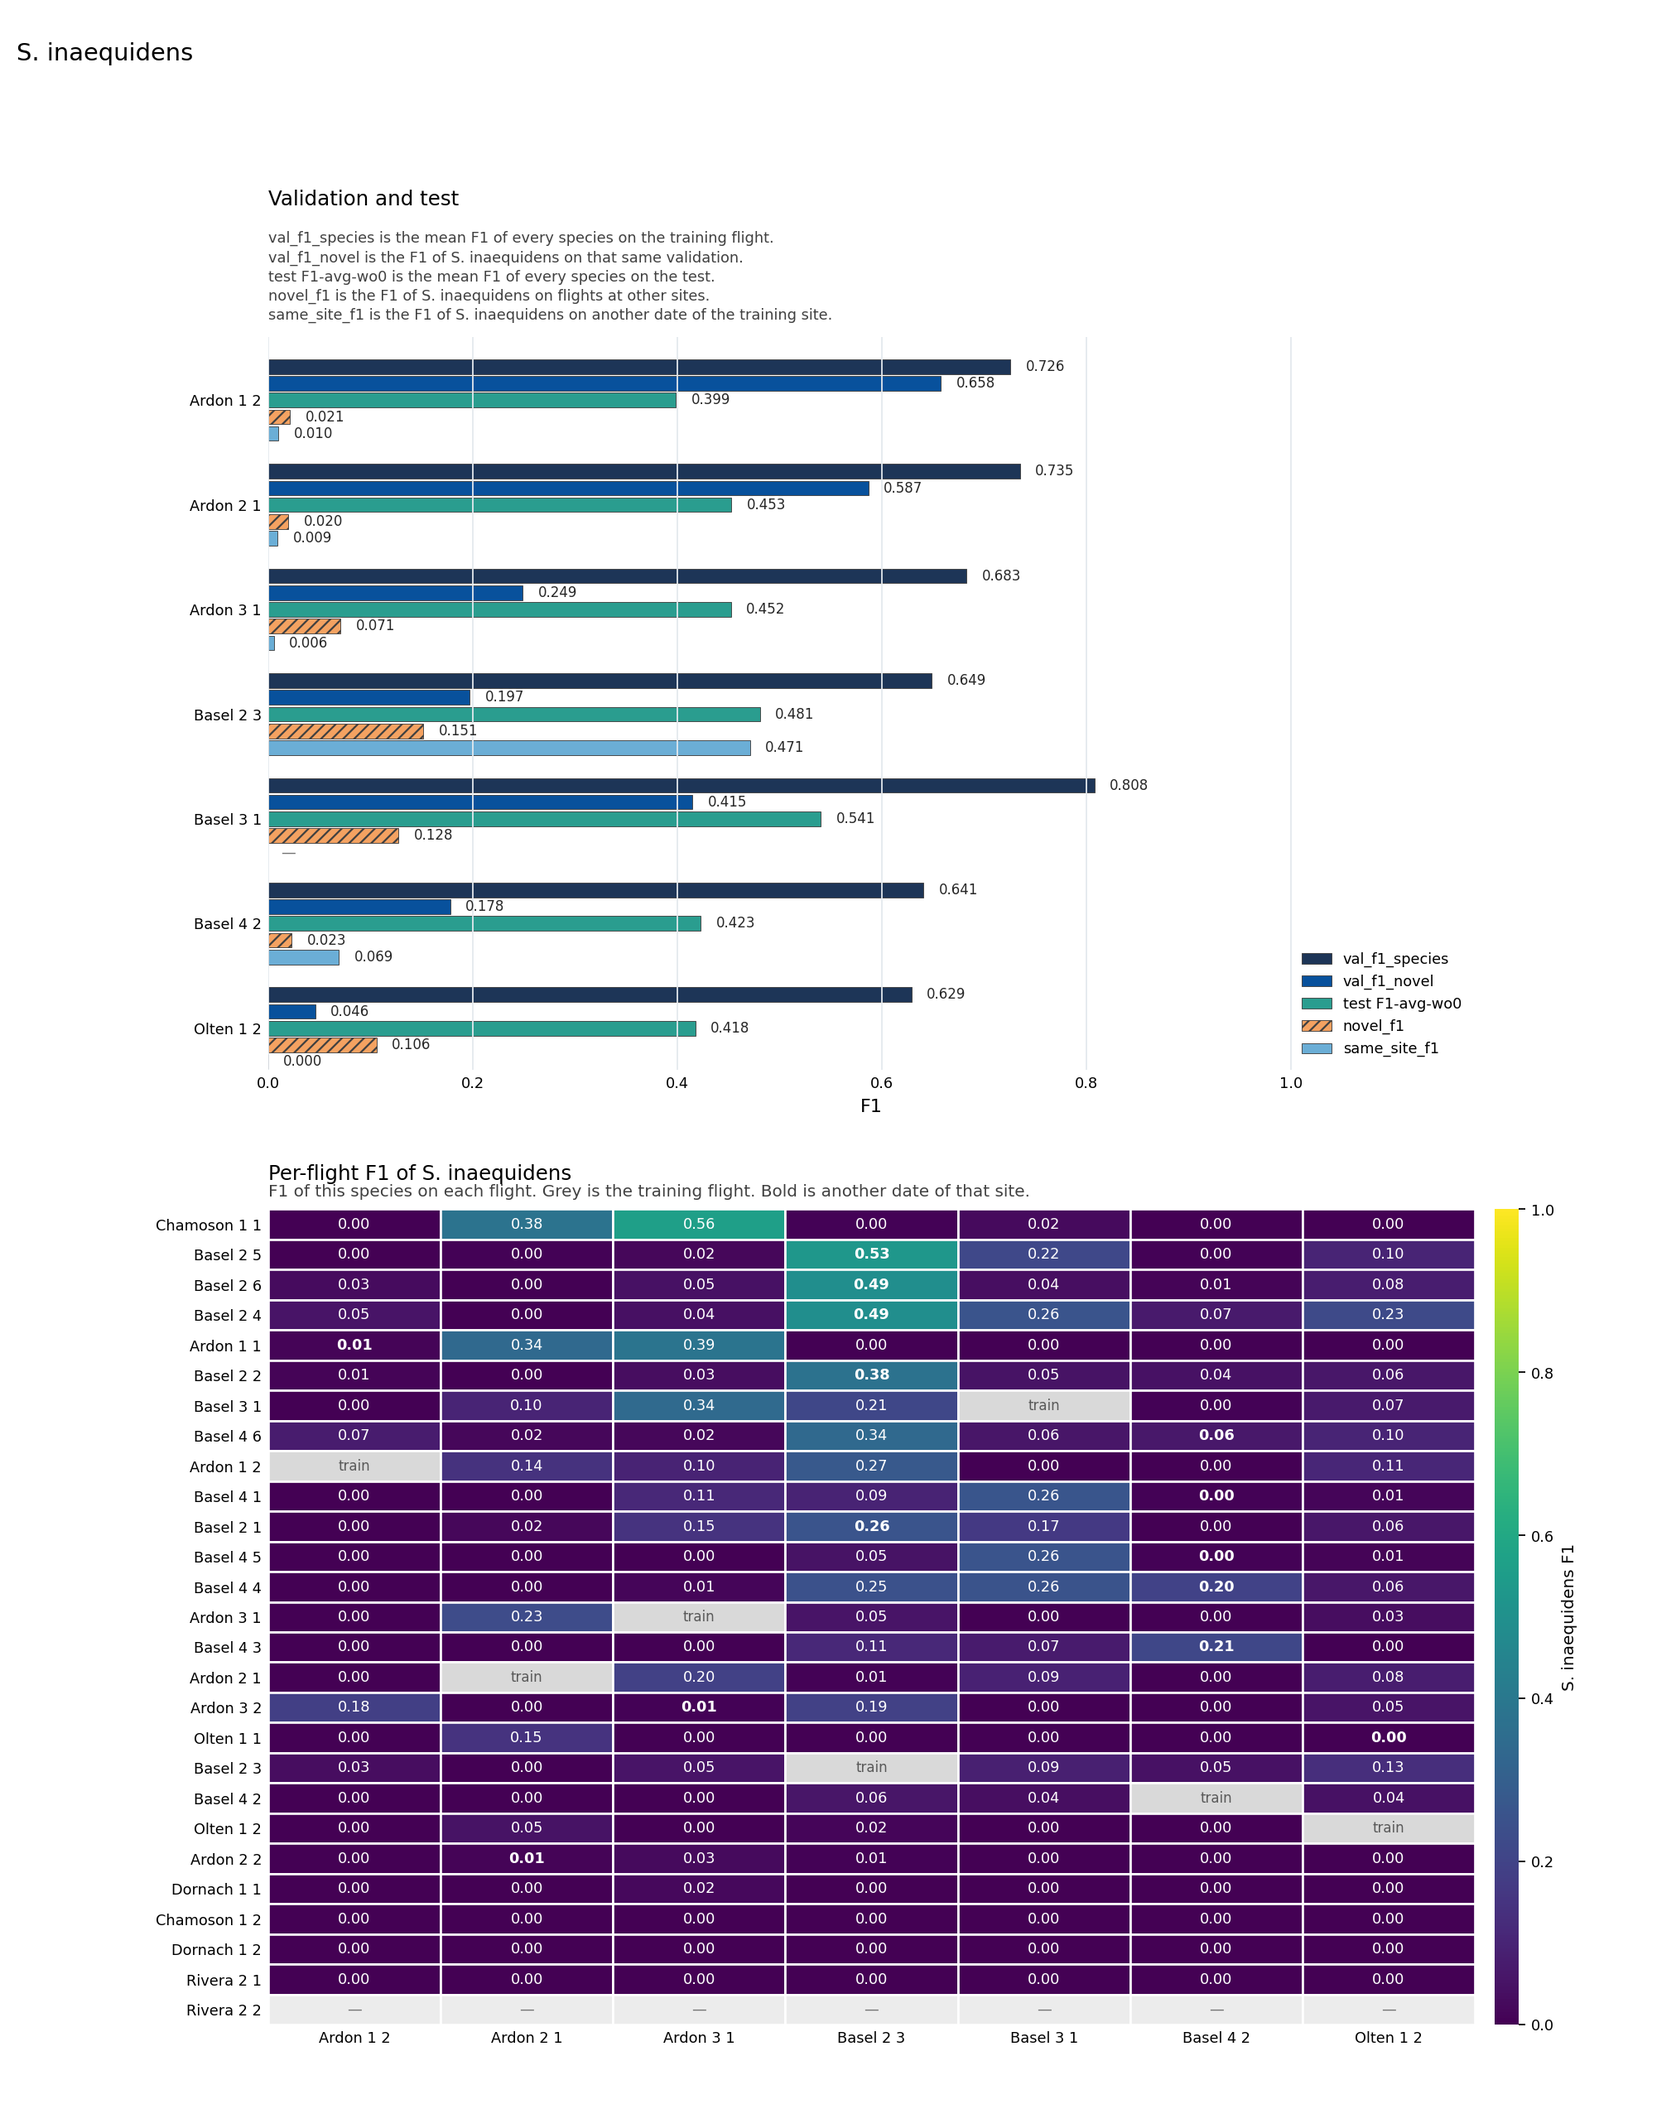
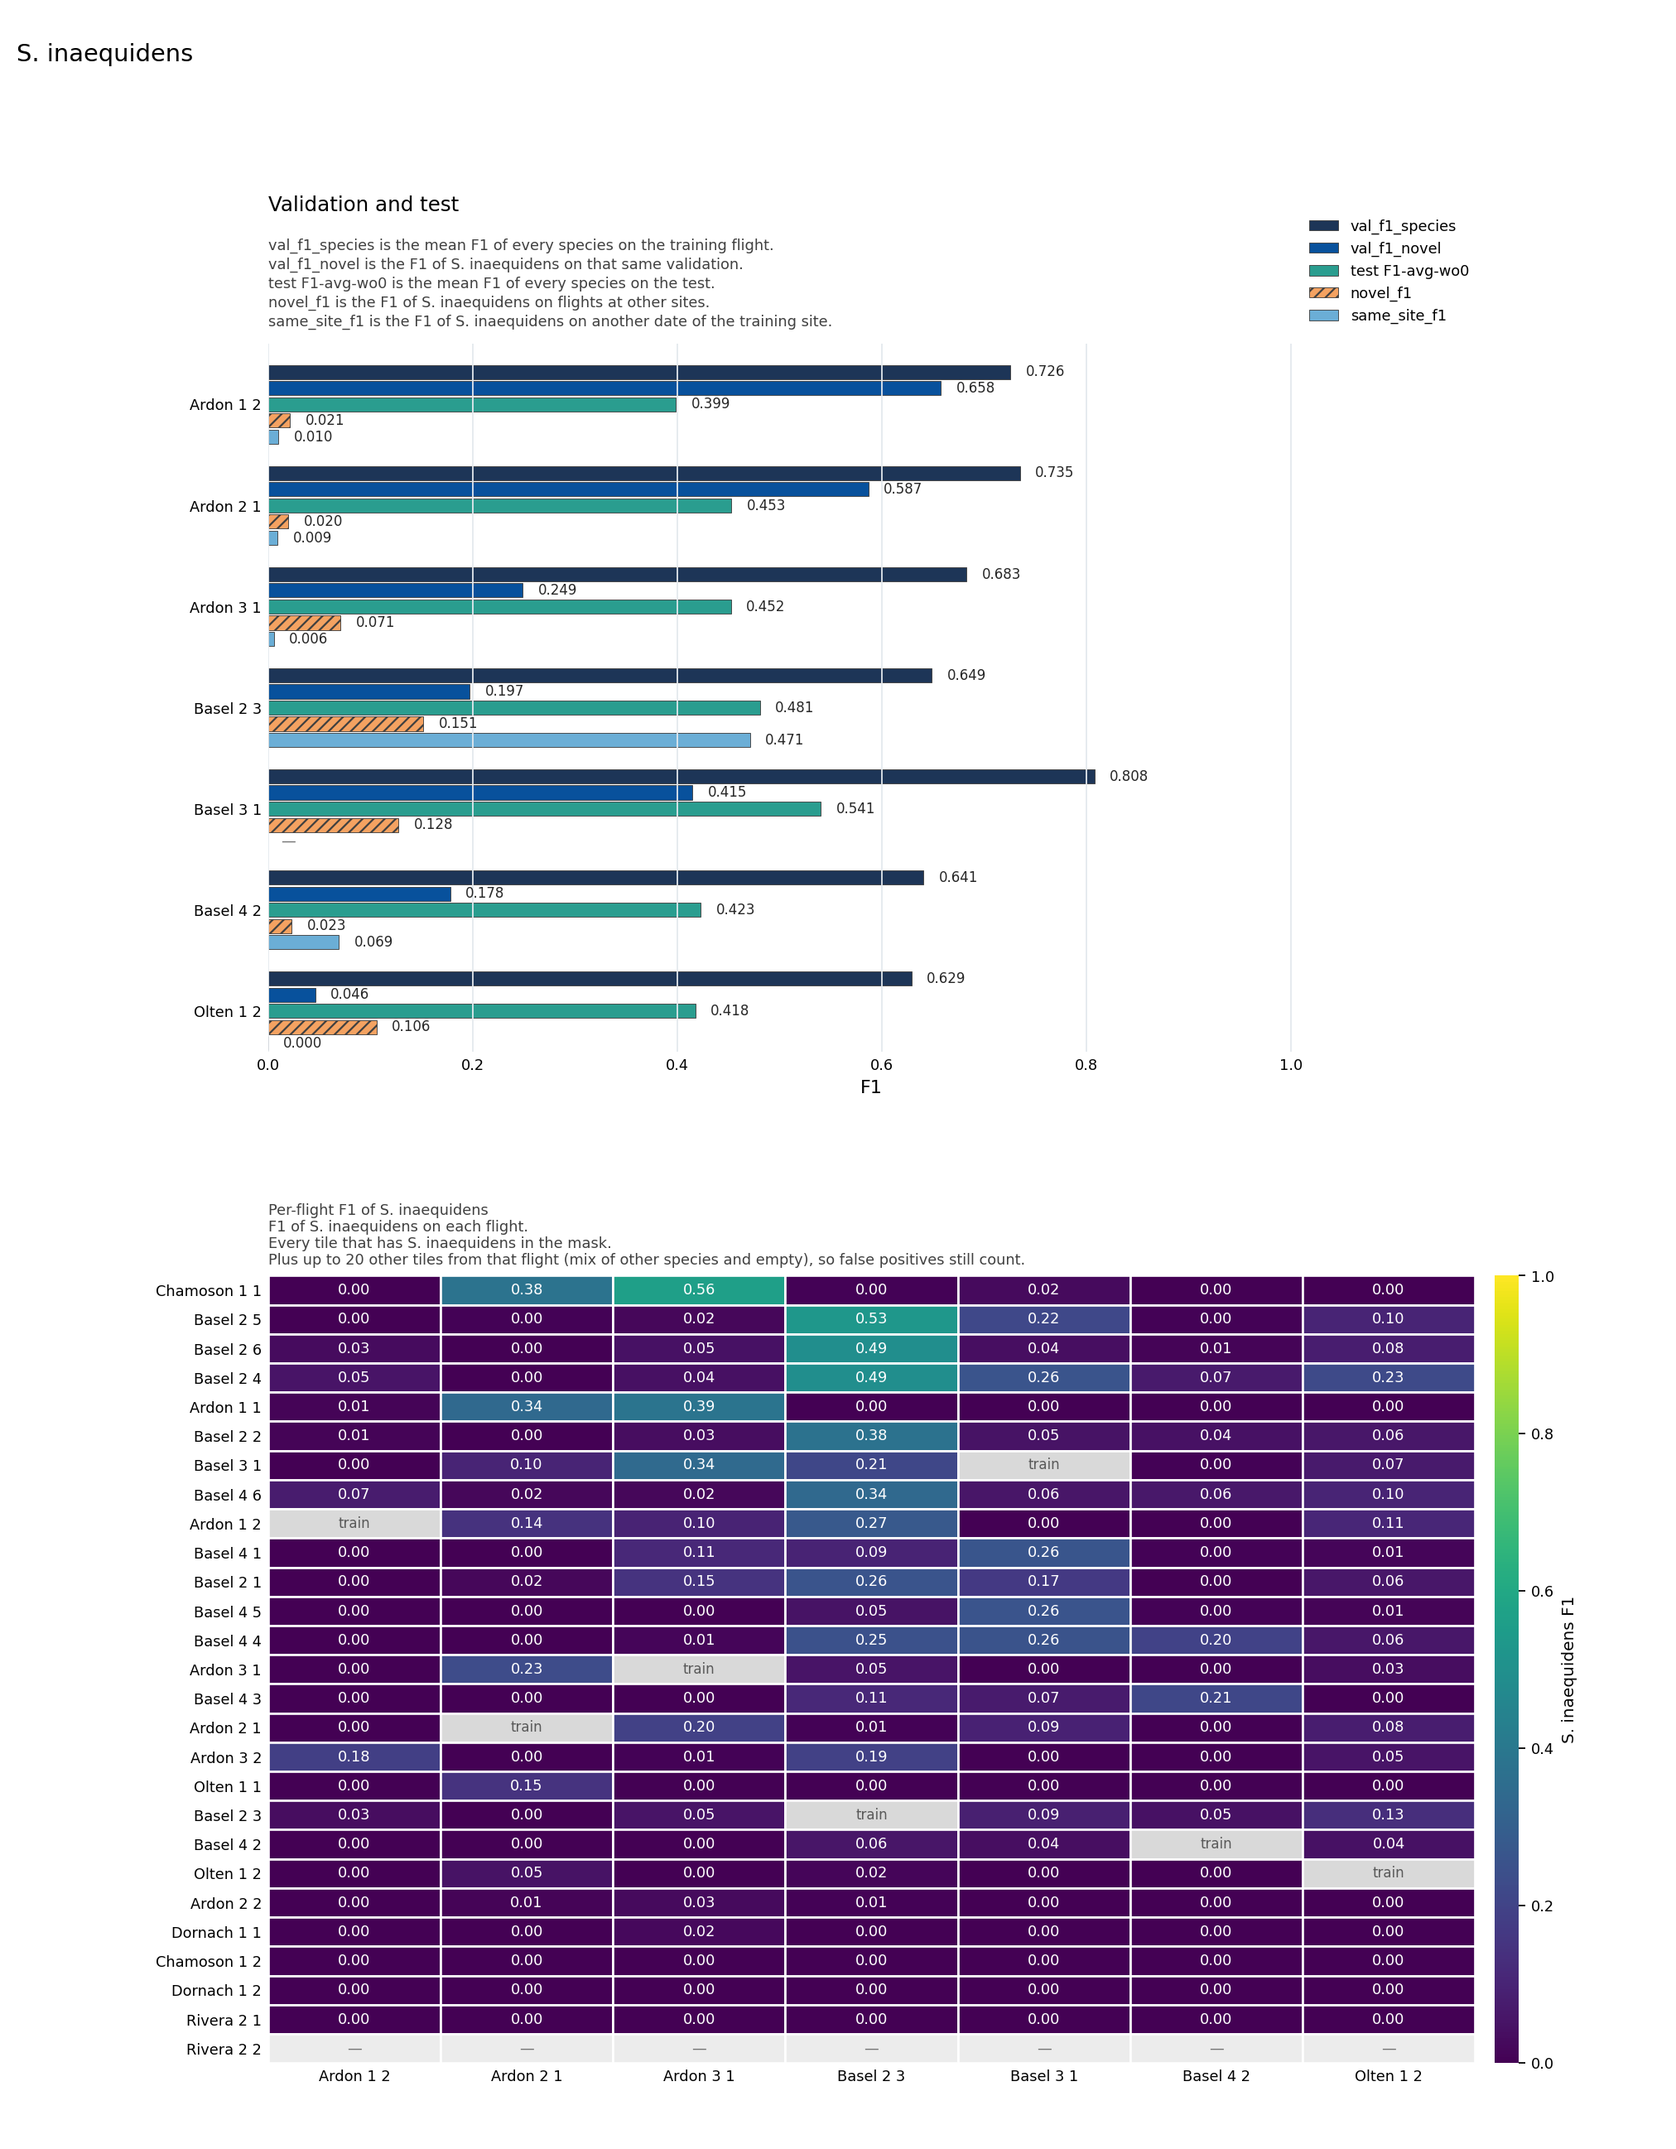
Refactor fine-tune plotting and add new species figures

diff --git a/notebooks/plot_novel_finetune.py b/notebooks/plot_novel_finetune.py
@@ -1,12 +1,13 @@
-"""One figure for the corrected S. inaequidens fine-tunes.
+"""One figure per novel-species fine-tune.
 
-Each run learns the new species from a single flight, then is scored on the
+Each run learns one new species from a single flight, then is scored on the
 other flights. The top panel is that training flight against the pooled test.
 The bottom panel is the same test, one cell per flight.
 
-The 20261109_152445 fine-tunes used a learning rate of 0.001 and collapsed.
-This figure reads only the 20261110_183106 batch. Re-run it as later flights
-finish; a flight with no test yet is left blank.
+Runs are read from lightning_logs. A species is whatever appears in a
+``_nv{species}_{flight}_ft_fl`` directory. For each species only the latest
+stamp is drawn, so an earlier batch that collapsed is left out. Re-run this
+as later flights finish; a flight with no test yet is left blank.
 """
 
 from pathlib import Path
@@ -17,11 +18,11 @@ import matplotlib.pyplot as plt
 import numpy as np
 from matplotlib.cm import ScalarMappable
 from matplotlib.colors import Normalize
-from matplotlib.patches import Rectangle
+from matplotlib.patches import Patch, Rectangle
 
-STAMP = "20261110_183106"
-SPECIES = "S_inaequidens"
-FLIGHT_RE = re.compile(rf"^{STAMP}.*_nv{SPECIES}_(?P<flight>.+)_ft_fl$")
+RUN_RE = re.compile(
+    r"^(?P<stamp>\d{8}_\d{6}).*_nv(?P<species>[A-Za-z]+_[A-Za-z]+)_(?P<flight>.+)_ft_fl$"
+)
 BEST_RE = re.compile(r"New best score:\s*([0-9.]+)")
 EPOCH_RE = re.compile(r"Epoch\s+\d+:\s+100%.*?val_f1_species=([0-9.]+).*?val_f1_novel=([0-9.]+)")
 
@@ -108,18 +109,29 @@ def _epoch_scores(text):
     return species
 
 
-def val_species_f1(root, run, flight):
-    """val_f1_species from the same epoch as the best val_f1_novel."""
-    needle = f"{STAMP}"
-    flight_name = f"_nv{SPECIES}_{flight}_ft_fl"
-    texts = [log.read_text(errors="replace") for log in sorted(run.glob("hydra/*/train_neophyte_semseg.log"))]
+def _job_heads(root):
+    """First slice of each queued-job log, read once for every flight."""
+    cached = getattr(_job_heads, "cache", None)
+    if cached is not None and cached[0] == root:
+        return cached[1]
     jobs = root / "explorer" / "cache" / "jobs"
+    heads = []
     if jobs.is_dir():
         for log in sorted(jobs.glob("*.log")):
-            head = log.read_text(errors="replace")[:40000]
-            if needle not in head or flight_name not in head:
-                continue
-            texts.append(log.read_text(errors="replace"))
+            heads.append((log, log.read_text(errors="replace")[:40000]))
+    _job_heads.cache = (root, heads)
+    return heads
+
+
+def val_species_f1(root, run, flight, species, stamp):
+    """val_f1_species from the same epoch as the best val_f1_novel."""
+    needle = stamp
+    flight_name = f"_nv{species}_{flight}_ft_fl"
+    texts = [log.read_text(errors="replace") for log in sorted(run.glob("hydra/*/train_neophyte_semseg.log"))]
+    for log, head in _job_heads(root):
+        if needle not in head or flight_name not in head:
+            continue
+        texts.append(log.read_text(errors="replace"))
     for text in texts:
         score = _epoch_scores(text)
         if score is not None:
@@ -136,11 +148,27 @@ def val_species_f1(root, run, flight):
     return float(np.mean(finite))
 
 
-def finished_runs(root):
+def latest_batches(root):
+    """Latest fine-tune stamp for each species that has a flight run."""
+    stamps = {}
+    for run in (root / "lightning_logs").iterdir():
+        match = RUN_RE.search(run.name)
+        if not match or not run.is_dir():
+            continue
+        species = match.group("species")
+        stamp = match.group("stamp")
+        if stamp > stamps.get(species, ""):
+            stamps[species] = stamp
+    return [(species, stamps[species]) for species in sorted(stamps)]
+
+
+def finished_runs(root, species, stamp):
     records = []
     for run in sorted((root / "lightning_logs").iterdir()):
-        match = FLIGHT_RE.search(run.name)
+        match = RUN_RE.search(run.name)
         if not match or not run.is_dir():
+            continue
+        if match.group("species") != species or match.group("stamp") != stamp:
             continue
         flight = match.group("flight")
         metrics = novel_metrics(run)
@@ -150,7 +178,7 @@ def finished_runs(root):
             continue
         records.append({
             "flight": flight,
-            "val_species": val_species_f1(root, run, flight),
+            "val_species": val_species_f1(root, run, flight, species, stamp),
             "validation": validation,
             "novel": None if metrics is None else metrics.get("novel_f1"),
             "same": None if metrics is None else metrics.get("same_site_f1"),
@@ -158,6 +186,7 @@ def finished_runs(root):
             "per_flight": [] if metrics is None else list(metrics.get("per_flight") or []),
             "tiles": None if metrics is None else metrics.get("eval_tiles"),
             "tiles_full": None if metrics is None else metrics.get("eval_tiles_full"),
+            "other_per_flight": None if metrics is None else metrics.get("eval_other_per_flight"),
             "progress": progress,
         })
     return records
@@ -178,7 +207,7 @@ def _finite(value):
     return bool(np.isfinite(value))
 
 
-def draw_summary(ax, records):
+def draw_summary(ax, records, label):
     measures = [
         ("val_species", "val_f1_species", "#1d3557", None),
         ("validation", "val_f1_novel", "#08519c", None),
@@ -189,7 +218,7 @@ def draw_summary(ax, records):
     positions = np.arange(len(records))
     height = 0.14
     offsets = np.linspace(-(len(measures) - 1) / 2, (len(measures) - 1) / 2, len(measures)) * 0.16
-    for offset, (key, label, color, hatch) in zip(offsets, measures):
+    for offset, (key, name, color, hatch) in zip(offsets, measures):
         for index, record in enumerate(records):
             value = record[key]
             y = positions[index] + offset
@@ -198,7 +227,7 @@ def draw_summary(ax, records):
                 continue
             ax.barh(
                 y, value, height=height, color=color, hatch=hatch,
-                edgecolor="0.25", linewidth=0.4, label=label if index == 0 else None,
+                edgecolor="0.25", linewidth=0.4,
             )
             ax.text(value + 0.015, y, f"{float(value):.3f}", va="center", ha="left", fontsize=7.5, color="0.15")
     labels = []
@@ -217,10 +246,10 @@ def draw_summary(ax, records):
         0, 1.02,
         "\n".join([
             "val_f1_species is the mean F1 of every species on the training flight.",
-            "val_f1_novel is the F1 of S. inaequidens on that same validation.",
+            f"val_f1_novel is the F1 of {label} on that same validation.",
             "test F1-avg-wo0 is the mean F1 of every species on the test.",
-            "novel_f1 is the F1 of S. inaequidens on flights at other sites.",
-            "same_site_f1 is the F1 of S. inaequidens on another date of the training site.",
+            f"novel_f1 is the F1 of {label} on flights at other sites.",
+            f"same_site_f1 is the F1 of {label} on another date of the training site.",
         ]),
         transform=ax.transAxes, ha="left", va="bottom", fontsize=8, color="0.25", linespacing=1.35,
     )
@@ -228,7 +257,16 @@ def draw_summary(ax, records):
     ax.tick_params(length=0, labelsize=8)
     for spine in ax.spines.values():
         spine.set_visible(False)
-    ax.legend(frameon=False, loc="lower right", fontsize=8)
+    # Always list every measure. Labelling only the first flight drops a series
+    # when that flight has no score (e.g. same_site_f1).
+    handles = [
+        Patch(facecolor=color, edgecolor="0.25", linewidth=0.4, hatch=hatch, label=name)
+        for _, name, color, hatch in measures
+    ]
+    ax.legend(
+        handles=handles, frameon=False, loc="lower right",
+        bbox_to_anchor=(1.0, 1.02), fontsize=8, borderaxespad=0,
+    )
 
 
 def _row_rank(values):
@@ -238,7 +276,7 @@ def _row_rank(values):
     return (0, -max(finite))
 
 
-def draw_flights(ax, records):
+def draw_flights(ax, records, label):
     """Scored flight by training flight. Best row first. Colour is fixed at 0..1."""
     tested = [record for record in records if record["per_flight"]]
     columns = [record["flight"] for record in tested]
@@ -280,21 +318,27 @@ def draw_flights(ax, records):
                 (j - 0.5, i - 0.5), 1, 1,
                 facecolor=cmap(float(value)), edgecolor="white", linewidth=1.2,
             ))
-            same = cell.get("role") == "same_site"
             ax.text(
                 j, i, f"{float(value):.2f}", ha="center", va="center",
                 fontsize=8, color=_ink(float(value)),
-                fontweight="bold" if same else "regular",
             )
+    caps = [record.get("other_per_flight") for record in tested if record.get("other_per_flight") is not None]
+    other_cap = int(caps[0]) if caps else 20
     ax.set_xticks(range(len(columns)), [flight_label(record["flight"]) for record in tested], fontsize=8)
     ax.set_yticks(range(len(rows)), [flight_label(name) for name in rows], fontsize=8)
     ax.set_xlim(-0.5, len(columns) - 0.5)
     ax.set_ylim(len(rows) - 0.5, -0.5)
-    ax.set_title("Per-flight F1 of S. inaequidens", loc="left", fontsize=11, pad=16)
     ax.text(
-        0, 1.012,
-        "F1 of this species on each flight. Grey is the training flight. Bold is another date of that site.",
-        transform=ax.transAxes, ha="left", va="bottom", fontsize=9, color="0.25",
+        0, 1.01,
+        "\n".join([
+            f"Per-flight F1 of {label}",
+            f"F1 of {label} on each flight.",
+            f"Every tile that has {label} in the mask.",
+            f"Plus up to {other_cap} other tiles from that flight (mix of other species and empty), so false positives still count.",
+        ]),
+        transform=ax.transAxes, ha="left", va="bottom",
+        fontsize=8, fontweight="normal", color="0.25", linespacing=1.15,
+        clip_on=False,
     )
     ax.tick_params(length=0)
     for spine in ax.spines.values():
@@ -303,11 +347,12 @@ def draw_flights(ax, records):
     return rows, columns
 
 
-def main():
-    root = repo_root()
-    records = finished_runs(root)
+def plot_species(root, species, stamp):
+    label = species_label(species)
+    records = finished_runs(root, species, stamp)
     if not records:
-        raise SystemExit(f"No {SPECIES} fine-tunes found for {STAMP}.")
+        print(f"skip {label}: no scored fine-tunes for {stamp}")
+        return None
     tested = [record for record in records if record["per_flight"]]
     n_rows = 0
     if tested:
@@ -317,34 +362,34 @@ def main():
             names.update(cell["flight"] for cell in record["per_flight"])
         n_rows = len(names)
     width = max(8.4, 3.2 + 1.35 * max(1, len(tested)))
-    height = 1.7 + 0.72 * len(records) + (0.34 * n_rows if n_rows else 0.4)
+    height = 2.0 + 0.72 * len(records) + (0.34 * n_rows if n_rows else 0.4)
     fig = plt.figure(figsize=(width, height))
-    fig.suptitle(species_label(SPECIES), x=0.01, ha="left", fontsize=13)
+    fig.suptitle(label, x=0.01, ha="left", fontsize=13)
     fig.subplots_adjust(left=0.16, right=0.88, top=0.84, bottom=0.04)
     if n_rows:
         grid = fig.add_gridspec(
-            2, 1, height_ratios=[0.85 * len(records) + 2.3, 0.34 * n_rows], hspace=0.18,
+            2, 1, height_ratios=[0.85 * len(records) + 2.3, 0.34 * n_rows], hspace=0.30,
         )
         ax_bars = fig.add_subplot(grid[0])
         ax_heat = fig.add_subplot(grid[1])
-        draw_summary(ax_bars, records)
-        draw_flights(ax_heat, records)
+        draw_summary(ax_bars, records, label)
+        draw_flights(ax_heat, records, label)
         mappable = ScalarMappable(norm=Normalize(0, 1), cmap=plt.cm.viridis)
         heat_box = ax_heat.get_position()
         cax = fig.add_axes([heat_box.x1 + 0.012, heat_box.y0, 0.014, heat_box.height])
         bar = fig.colorbar(mappable, cax=cax)
-        bar.set_label("S. inaequidens F1", fontsize=9)
+        bar.set_label(f"{label} F1", fontsize=9)
         bar.outline.set_visible(False)
         bar.ax.tick_params(labelsize=8)
     else:
         ax_bars = fig.add_subplot(111)
-        draw_summary(ax_bars, records)
+        draw_summary(ax_bars, records, label)
     out = root / "notebooks" / "few_shot_site_figures"
     out.mkdir(parents=True, exist_ok=True)
-    path = out / "s_inaequidens_finetune.png"
+    path = out / f"{species.lower()}_finetune.png"
     fig.savefig(path, dpi=160)
     plt.close(fig)
-    print(f"wrote {path}")
+    print(f"wrote {path} ({stamp}, {len(records)} flights)")
     for record in records:
         def shown(value):
             return "—" if value is None else f"{value:.3f}"
@@ -355,6 +400,19 @@ def main():
             f"novel_f1 {shown(record['novel'])}, same_site_f1 {shown(record['same'])}"
         )
     return path
+
+
+def main():
+    root = repo_root()
+    batches = latest_batches(root)
+    if not batches:
+        raise SystemExit("No novel-species flight fine-tunes found in lightning_logs/.")
+    paths = []
+    for species, stamp in batches:
+        path = plot_species(root, species, stamp)
+        if path is not None:
+            paths.append(path)
+    return paths
 
 
 if __name__ == "__main__":
